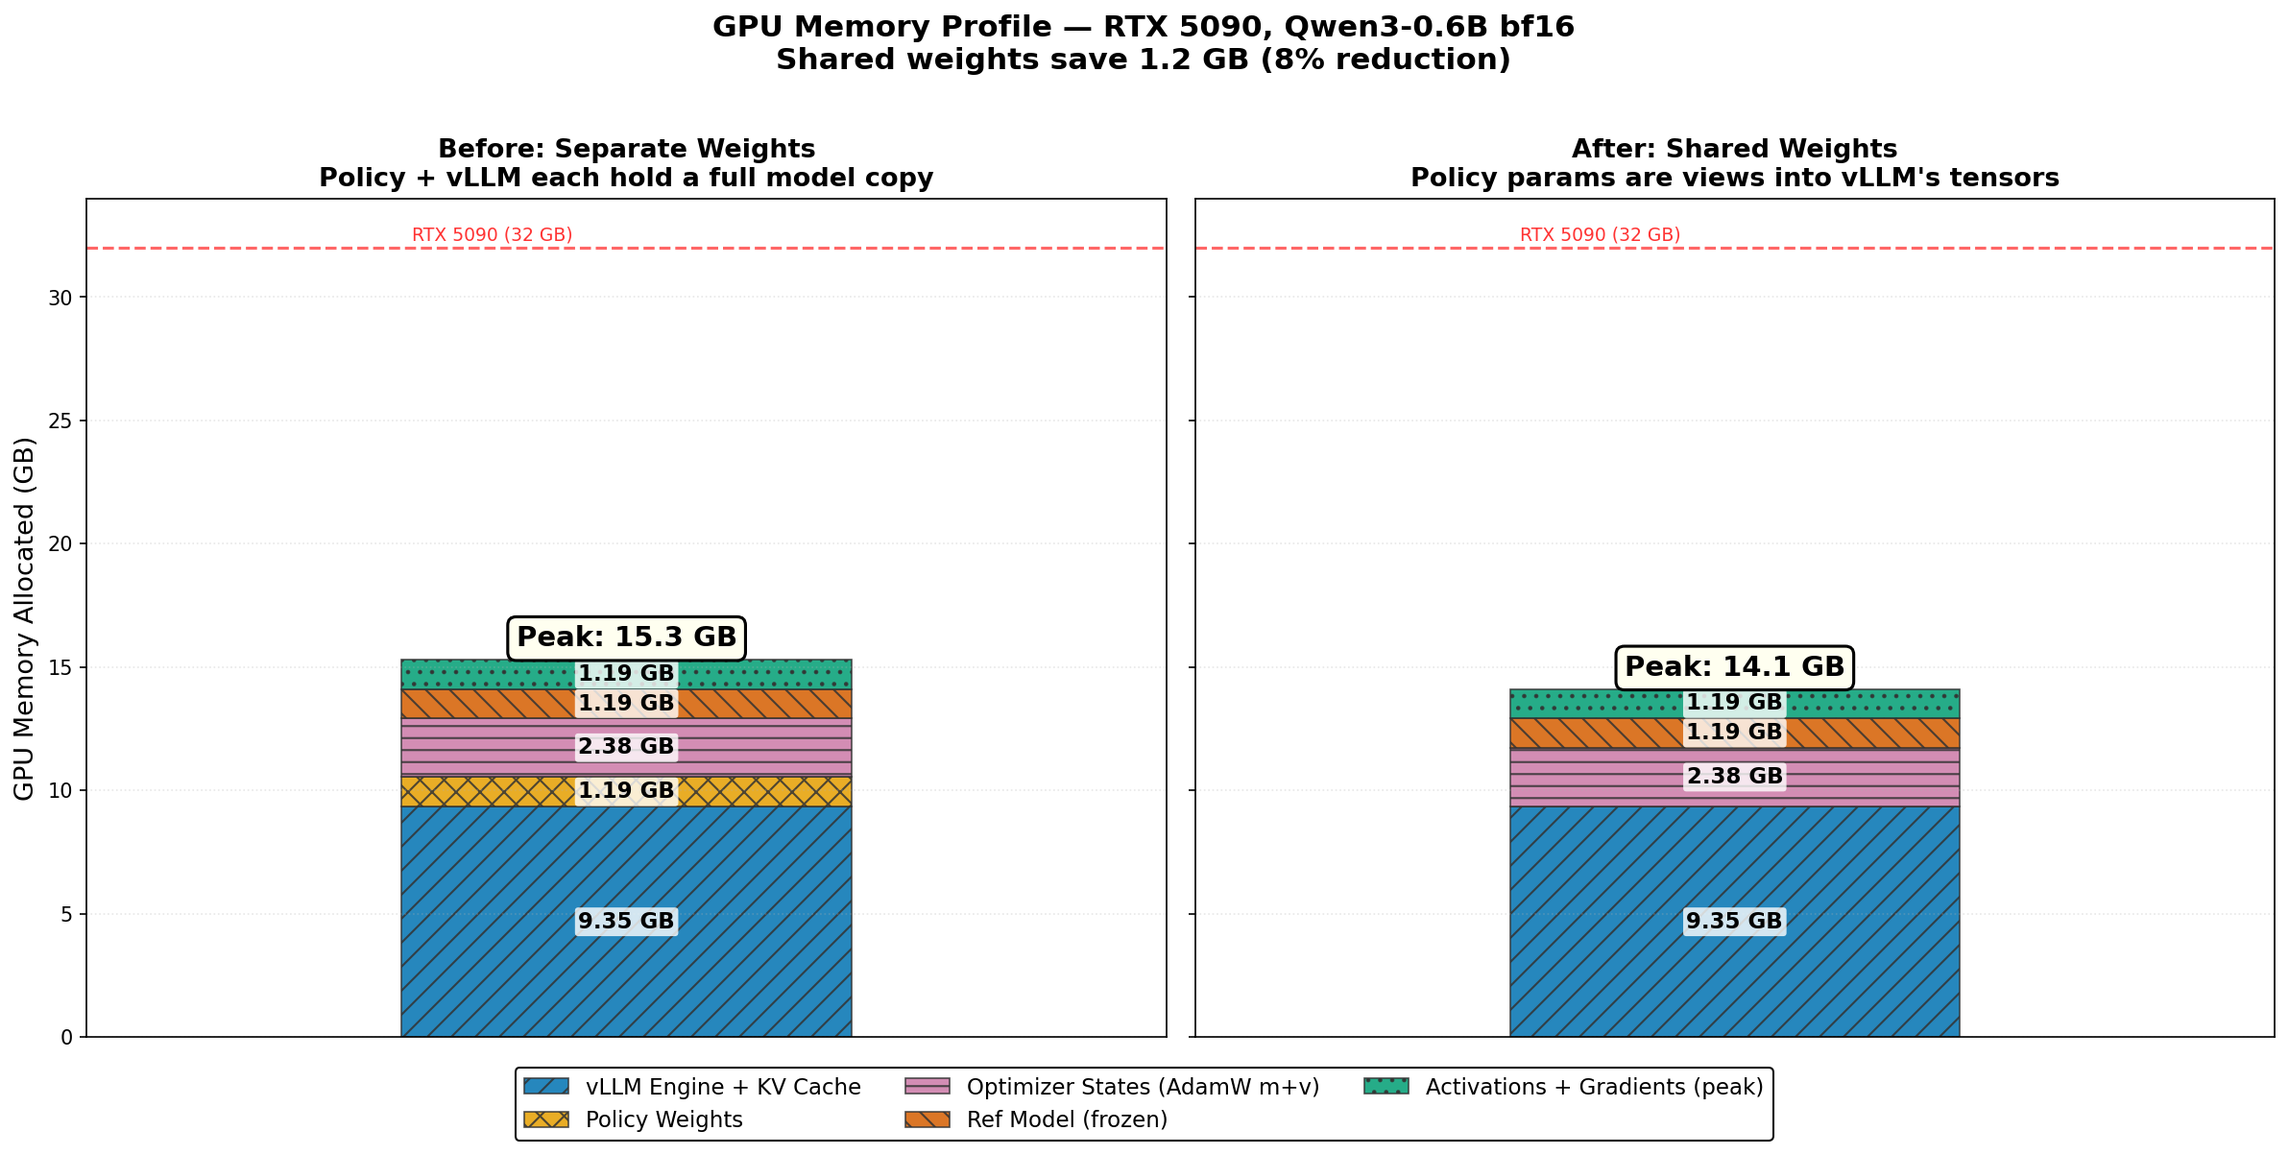
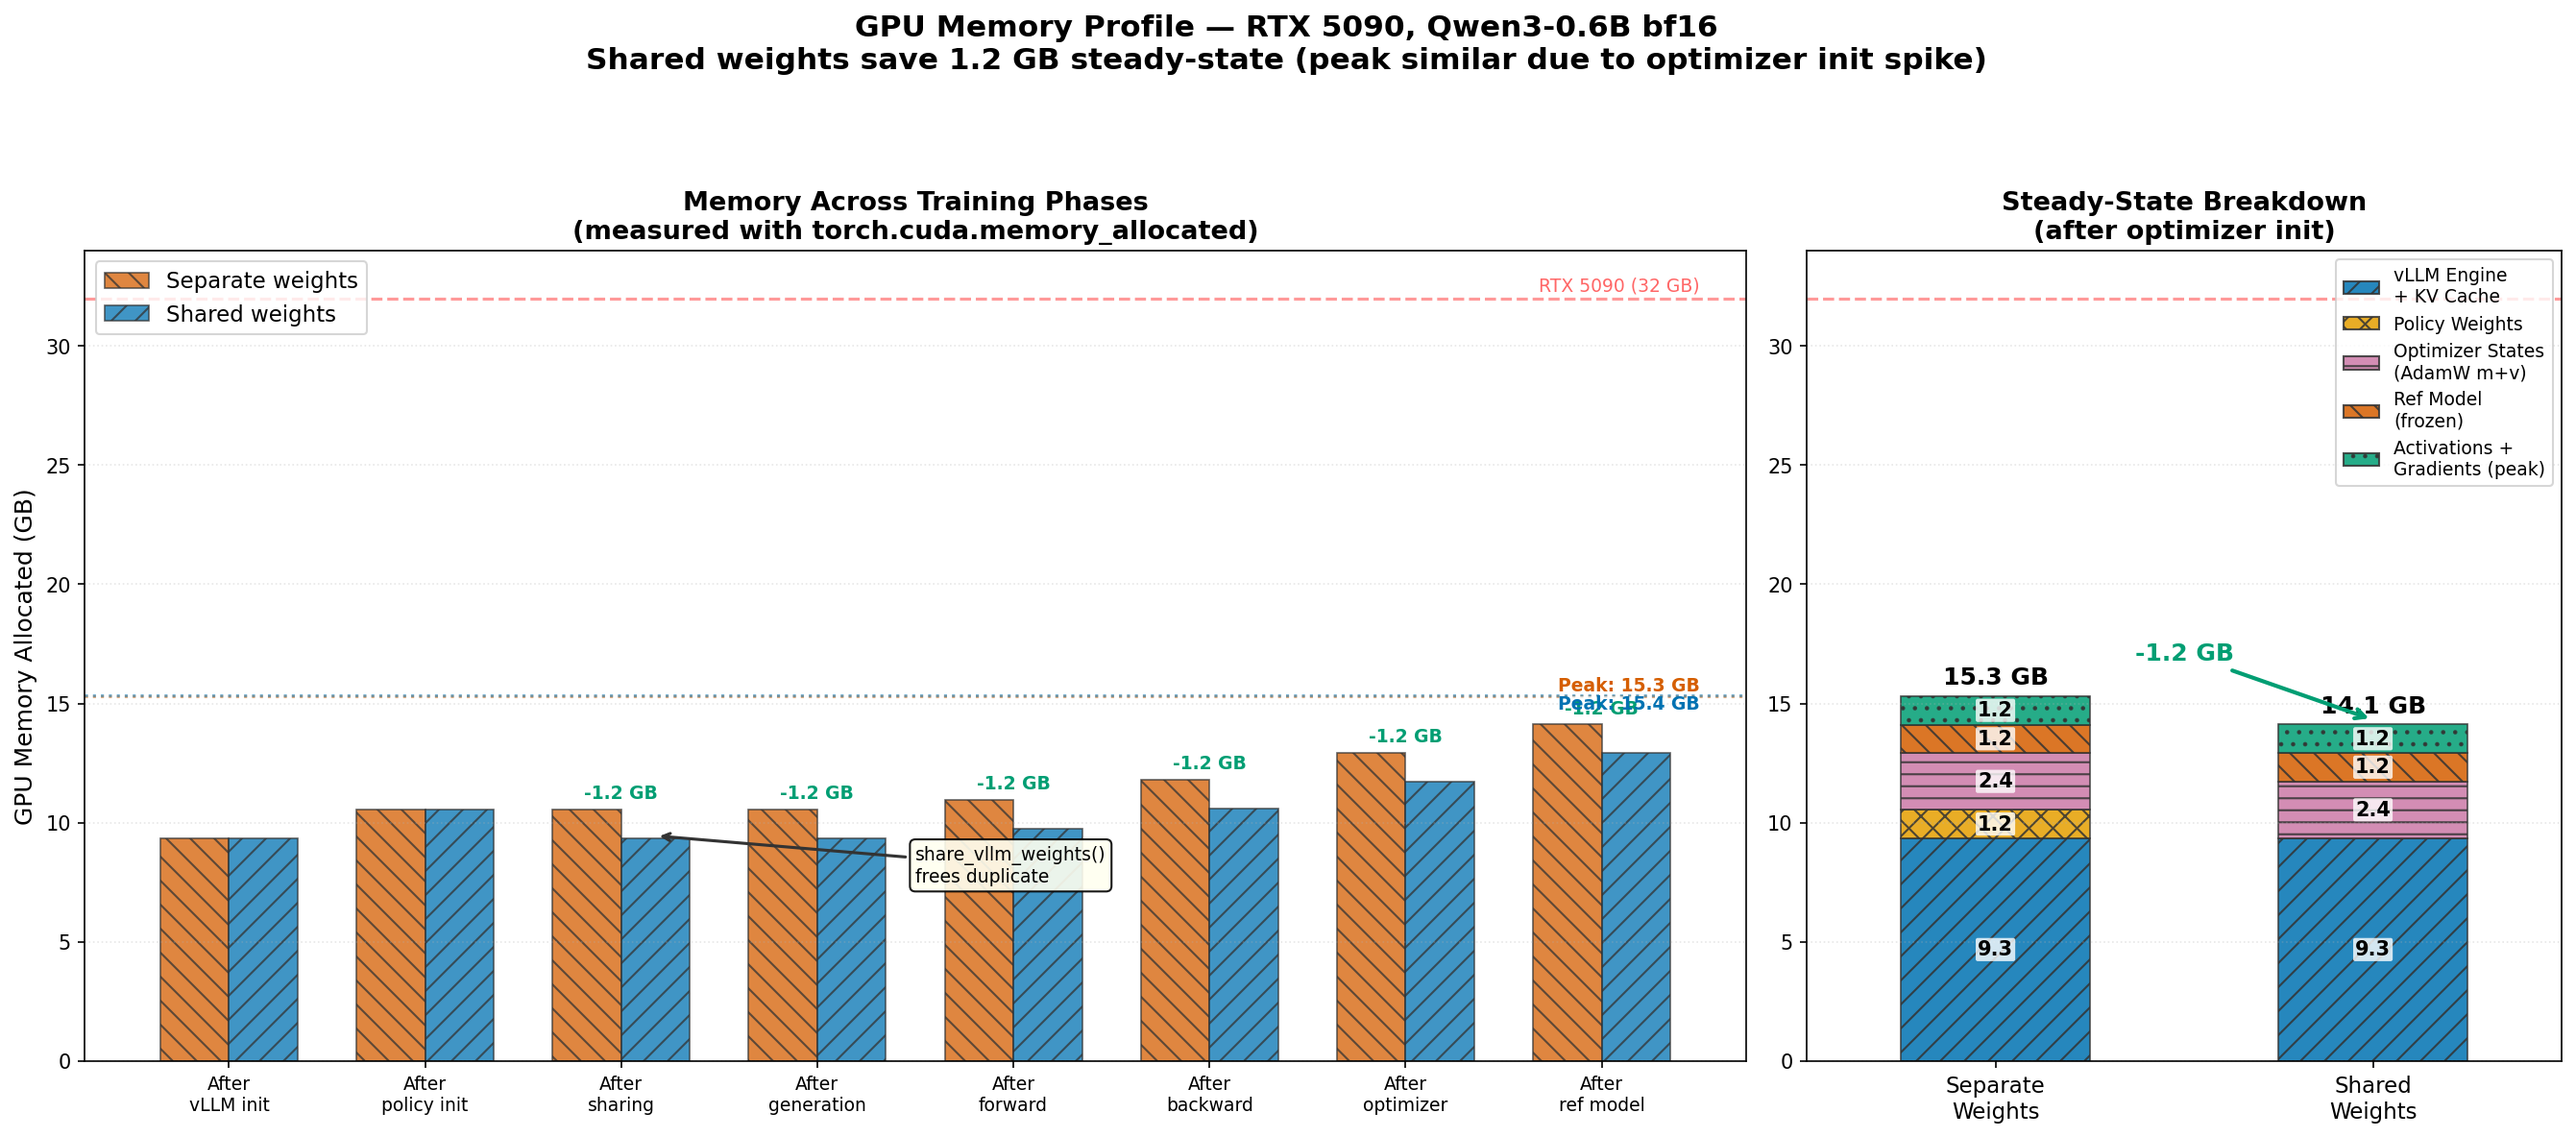
Update memory profile with real measurements + phase timeline
Two-panel plot using actual torch.cuda.memory_allocated() data:
- Left: phase-by-phase memory across a training step (before/after)
- Right: component breakdown (stacked bars)
Shows 1.2 GB steady-state savings, peak similar due to optimizer init.

diff --git a/scripts/plot_memory_profile.py b/scripts/plot_memory_profile.py
@@ -1,145 +1,162 @@
-"""Plot GPU memory allocation breakdown: before vs after shared weights.
+"""Plot GPU memory allocation across training phases: before vs after shared weights.
 
-Creates a stacked bar chart showing exactly where GPU memory goes at each
-phase of initialization and training. Compares the baseline (separate weights)
-with shared weights mode.
+Uses real torch.cuda.memory_allocated() measurements from RTX 5090 server.
+Two-panel plot: left shows phase-by-phase memory timeline, right shows
+component breakdown as stacked bars.
 """
 
 import numpy as np
 import matplotlib
 matplotlib.use("Agg")
 import matplotlib.pyplot as plt
+import matplotlib.patches as mpatches
 from pathlib import Path
 
-# --- Baseline memory profile (from onyx's server measurements) ---
-# Each entry: (phase_label, {component: allocated_GB})
-# Components accumulate — each phase adds on top of the previous.
+# --- Real measurements from RTX 5090 (torch.cuda.memory_allocated) ---
 
+PHASES = ["After\nvLLM init", "After\npolicy init", "After\nsharing", "After\ngeneration",
+          "After\nforward", "After\nbackward", "After\noptimizer", "After\nref model"]
+
+# Allocated GB at each phase (measured)
+BASELINE_ALLOC = [9.347, 10.540, 10.540, 10.540, 10.940, 11.781, 12.924, 14.116]
+SHARED_ALLOC   = [9.347, 10.540,  9.347,  9.347,  9.747, 10.588, 11.732, 12.924]
+
+# Peak GB at each phase (torch.cuda.max_memory_allocated snapshots)
+BASELINE_PEAK = 15.309
+SHARED_PEAK   = 15.362  # nearly same due to optimizer moment buffer init spike
+
+# Component breakdown (for stacked bar panel)
 COMPONENTS = [
-    "vLLM Engine + KV Cache",
-    "Policy Weights",
-    "Optimizer States (AdamW m+v)",
-    "Ref Model (frozen)",
-    "Activations + Gradients (peak)",
+    ("vLLM Engine\n+ KV Cache",          9.347, 9.347, "#0072B2", "//"),
+    ("Policy Weights",                    1.192, 0.0,   "#E69F00", "xx"),
+    ("Optimizer States\n(AdamW m+v)",     2.384, 2.384, "#CC79A7", "--"),
+    ("Ref Model\n(frozen)",               1.192, 1.192, "#D55E00", "\\\\"),
+    ("Activations +\nGradients (peak)",   1.193, 1.193, "#009E73", ".."),
 ]
 
-# Colorblind-safe palette (Wong 2011)
-COLORS = {
-    "vLLM Engine + KV Cache":          "#0072B2",
-    "Policy Weights":                   "#E69F00",
-    "Optimizer States (AdamW m+v)":     "#CC79A7",
-    "Ref Model (frozen)":               "#D55E00",
-    "Activations + Gradients (peak)":   "#009E73",
-}
 
-HATCHES = {
-    "vLLM Engine + KV Cache":          "//",
-    "Policy Weights":                   "xx",
-    "Optimizer States (AdamW m+v)":     "--",
-    "Ref Model (frozen)":               "\\\\",
-    "Activations + Gradients (peak)":   "..",
-}
+def plot_memory_profile(output_path: str):
+    fig, (ax1, ax2) = plt.subplots(1, 2, figsize=(18, 8),
+                                    gridspec_kw={"width_ratios": [2.2, 1]})
 
-# Memory values in GB (measured on RTX 5090, Qwen3-0.6B bf16)
-BASELINE = {
-    "vLLM Engine + KV Cache":          9.347,
-    "Policy Weights":                   1.192,
-    "Optimizer States (AdamW m+v)":     2.384,
-    "Ref Model (frozen)":               1.192,
-    "Activations + Gradients (peak)":   1.193,  # 15.309 - 14.116
-}
+    # --- Left panel: phase-by-phase memory timeline ---
+    x = np.arange(len(PHASES))
+    width = 0.35
 
-SHARED = {
-    "vLLM Engine + KV Cache":          9.347,
-    "Policy Weights":                   0.0,    # shared with vLLM — no extra alloc
-    "Optimizer States (AdamW m+v)":     2.384,
-    "Ref Model (frozen)":               1.192,
-    "Activations + Gradients (peak)":   1.193,
-}
+    bars_base = ax1.bar(x - width/2, BASELINE_ALLOC, width,
+                        color="#D55E00", alpha=0.75, edgecolor="#333333",
+                        linewidth=0.8, hatch="\\\\", label="Separate weights")
+    bars_shared = ax1.bar(x + width/2, SHARED_ALLOC, width,
+                          color="#0072B2", alpha=0.75, edgecolor="#333333",
+                          linewidth=0.8, hatch="//", label="Shared weights")
 
+    # Label the delta on key phases
+    for i in range(len(PHASES)):
+        delta = SHARED_ALLOC[i] - BASELINE_ALLOC[i]
+        if abs(delta) > 0.1:
+            y_pos = max(BASELINE_ALLOC[i], SHARED_ALLOC[i]) + 0.3
+            ax1.text(x[i], y_pos, f"{delta:+.1f} GB",
+                     ha="center", va="bottom", fontsize=9, fontweight="bold",
+                     color="#009E73" if delta < 0 else "#D55E00",
+                     bbox=dict(boxstyle="round,pad=0.15", facecolor="white",
+                               edgecolor="none", alpha=0.8))
 
-def plot_memory_comparison(output_path: str):
-    fig, axes = plt.subplots(1, 2, figsize=(16, 8), sharey=True)
+    # Highlight the "after sharing" phase
+    ax1.annotate("share_vllm_weights()\nfrees duplicate",
+                 xy=(2 + width/2, SHARED_ALLOC[2] + 0.1),
+                 xytext=(3.5, 7.5), fontsize=9,
+                 arrowprops=dict(arrowstyle="->", color="#333333", lw=1.5),
+                 bbox=dict(boxstyle="round,pad=0.3", facecolor="#FFFFF0",
+                           edgecolor="black", alpha=0.9))
 
-    for ax, (title, data, subtitle) in zip(axes, [
-        ("Before: Separate Weights", BASELINE, "Policy + vLLM each hold a full model copy"),
-        ("After: Shared Weights", SHARED, "Policy params are views into vLLM's tensors"),
-    ]):
-        bottoms = np.zeros(1)
-        total = 0.0
+    # Peak memory lines
+    ax1.axhline(y=BASELINE_PEAK, color="#D55E00", linestyle=":", linewidth=1.5, alpha=0.5)
+    ax1.text(len(PHASES) - 0.5, BASELINE_PEAK + 0.2, f"Peak: {BASELINE_PEAK:.1f} GB",
+             ha="right", fontsize=9, color="#D55E00", fontweight="bold")
+    ax1.axhline(y=SHARED_PEAK, color="#0072B2", linestyle=":", linewidth=1.5, alpha=0.5)
+    ax1.text(len(PHASES) - 0.5, SHARED_PEAK - 0.6, f"Peak: {SHARED_PEAK:.1f} GB",
+             ha="right", fontsize=9, color="#0072B2", fontweight="bold")
 
-        for comp in COMPONENTS:
-            val = data[comp]
-            bar = ax.bar(
-                [0], [val], bottom=bottoms,
-                color=COLORS[comp], edgecolor="#333333", linewidth=0.8,
-                width=0.5, label=comp,
-                hatch=HATCHES[comp], alpha=0.85,
-            )
+    # RTX 5090 limit
+    ax1.axhline(y=32, color="red", linestyle="--", linewidth=1.5, alpha=0.4)
+    ax1.text(len(PHASES) - 0.5, 32.3, "RTX 5090 (32 GB)", ha="right",
+             fontsize=9, color="red", alpha=0.6)
 
-            # Label each segment
-            if val > 0.3:
-                mid_y = bottoms[0] + val / 2
-                ax.text(
-                    0, mid_y, f"{val:.2f} GB",
-                    ha="center", va="center", fontsize=11, fontweight="bold",
-                    color="black",
-                    bbox=dict(boxstyle="round,pad=0.15", facecolor="white",
-                              edgecolor="none", alpha=0.8),
-                )
-            elif val > 0.05:
-                # Small segment — label outside
-                mid_y = bottoms[0] + val / 2
-                ax.annotate(
-                    f"{val:.2f} GB", xy=(0.25, mid_y), fontsize=9,
-                    ha="left", va="center",
-                )
+    ax1.set_xticks(x)
+    ax1.set_xticklabels(PHASES, fontsize=9)
+    ax1.set_ylabel("GPU Memory Allocated (GB)", fontsize=12)
+    ax1.set_title("Memory Across Training Phases\n(measured with torch.cuda.memory_allocated)",
+                  fontsize=13, fontweight="bold")
+    ax1.set_ylim(0, 34)
+    ax1.legend(fontsize=11, loc="upper left")
+    ax1.grid(axis="y", alpha=0.3, linestyle=":")
 
-            bottoms += val
-            total += val
+    # --- Right panel: component breakdown (stacked bars) ---
+    bar_x = [0, 1]
+    bar_labels = ["Separate\nWeights", "Shared\nWeights"]
 
-        # Total label on top
-        ax.text(
-            0, total + 0.3, f"Peak: {total:.1f} GB",
-            ha="center", va="bottom", fontsize=14, fontweight="bold",
-            bbox=dict(boxstyle="round,pad=0.3", facecolor="#FFFFF0",
-                      edgecolor="black", linewidth=1.5),
-        )
+    bottoms_base = np.zeros(1)
+    bottoms_shared = np.zeros(1)
 
-        ax.set_title(f"{title}\n{subtitle}", fontsize=13, fontweight="bold")
-        ax.set_xlim(-0.6, 0.6)
-        ax.set_xticks([])
-        ax.grid(axis="y", alpha=0.3, linestyle=":")
+    handles = []
+    for name, val_base, val_shared, color, hatch in COMPONENTS:
+        # Baseline bar
+        ax2.bar([0], [val_base], bottom=bottoms_base, width=0.5,
+                color=color, edgecolor="#333333", linewidth=0.8,
+                hatch=hatch, alpha=0.85)
+        # Shared bar
+        ax2.bar([1], [val_shared], bottom=bottoms_shared, width=0.5,
+                color=color, edgecolor="#333333", linewidth=0.8,
+                hatch=hatch, alpha=0.85)
 
-    axes[0].set_ylabel("GPU Memory Allocated (GB)", fontsize=13)
+        # Labels on segments > 0.4 GB
+        for bx, val, bot in [(0, val_base, bottoms_base), (1, val_shared, bottoms_shared)]:
+            if val > 0.4:
+                ax2.text(bx, bot[0] + val/2, f"{val:.1f}",
+                         ha="center", va="center", fontsize=10, fontweight="bold",
+                         bbox=dict(boxstyle="round,pad=0.1", facecolor="white",
+                                   edgecolor="none", alpha=0.8))
 
-    # RTX 5090 total memory line
-    for ax in axes:
-        ax.axhline(y=32, color="red", linestyle="--", linewidth=1.5, alpha=0.6)
-        ax.text(0.45, 32.3, "RTX 5090 (32 GB)", ha="right", fontsize=9,
-                color="red", alpha=0.8, transform=ax.get_yaxis_transform())
-        ax.set_ylim(0, 34)
+        handles.append(mpatches.Patch(facecolor=color, edgecolor="#333333",
+                                       hatch=hatch, alpha=0.85, label=name))
+        bottoms_base += val_base
+        bottoms_shared += val_shared
 
-    # Shared legend
-    handles, labels = axes[0].get_legend_handles_labels()
-    fig.legend(
-        handles, labels, loc="lower center", ncol=3, fontsize=11,
-        framealpha=0.95, edgecolor="black", bbox_to_anchor=(0.5, -0.02),
+    # Totals
+    total_base = sum(v[1] for v in COMPONENTS)
+    total_shared = sum(v[2] for v in COMPONENTS)
+    savings = total_base - total_shared
+
+    ax2.text(0, total_base + 0.3, f"{total_base:.1f} GB",
+             ha="center", va="bottom", fontsize=12, fontweight="bold")
+    ax2.text(1, total_shared + 0.3, f"{total_shared:.1f} GB",
+             ha="center", va="bottom", fontsize=12, fontweight="bold")
+
+    # Savings arrow
+    ax2.annotate(f"-{savings:.1f} GB", xy=(1, total_shared + 0.2),
+                 xytext=(0.5, total_base + 1.5), fontsize=12, fontweight="bold",
+                 color="#009E73", ha="center",
+                 arrowprops=dict(arrowstyle="->", color="#009E73", lw=2))
+
+    ax2.set_xticks([0, 1])
+    ax2.set_xticklabels(bar_labels, fontsize=11)
+    ax2.set_title("Steady-State Breakdown\n(after optimizer init)",
+                  fontsize=13, fontweight="bold")
+    ax2.set_xlim(-0.5, 1.5)
+    ax2.set_ylim(0, 34)
+    ax2.axhline(y=32, color="red", linestyle="--", linewidth=1.5, alpha=0.4)
+    ax2.grid(axis="y", alpha=0.3, linestyle=":")
+    ax2.legend(handles=handles, fontsize=9, loc="upper right")
+
+    # Supertitle
+    fig.suptitle(
+        "GPU Memory Profile — RTX 5090, Qwen3-0.6B bf16\n"
+        f"Shared weights save {savings:.1f} GB steady-state "
+        f"(peak similar due to optimizer init spike)",
+        fontsize=15, fontweight="bold", y=0.98,
     )
 
-    # Savings annotation
-    baseline_total = sum(BASELINE.values())
-    shared_total = sum(SHARED.values())
-    savings = baseline_total - shared_total
-
-    fig.text(
-        0.5, 0.92,
-        f"GPU Memory Profile — RTX 5090, Qwen3-0.6B bf16\n"
-        f"Shared weights save {savings:.1f} GB ({savings/baseline_total*100:.0f}% reduction)",
-        ha="center", fontsize=15, fontweight="bold",
-    )
-
-    plt.tight_layout(rect=[0, 0.05, 1, 0.88])
+    plt.tight_layout(rect=[0, 0, 1, 0.92])
     plt.savefig(output_path, dpi=150, bbox_inches="tight")
     plt.close()
     print(f"Saved to {output_path}")
@@ -147,7 +164,7 @@ def plot_memory_comparison(output_path: str):
 
 def main():
     output_path = Path(__file__).parent.parent / "results" / "memory_profile.png"
-    plot_memory_comparison(str(output_path))
+    plot_memory_profile(str(output_path))
 
 
 if __name__ == "__main__":
